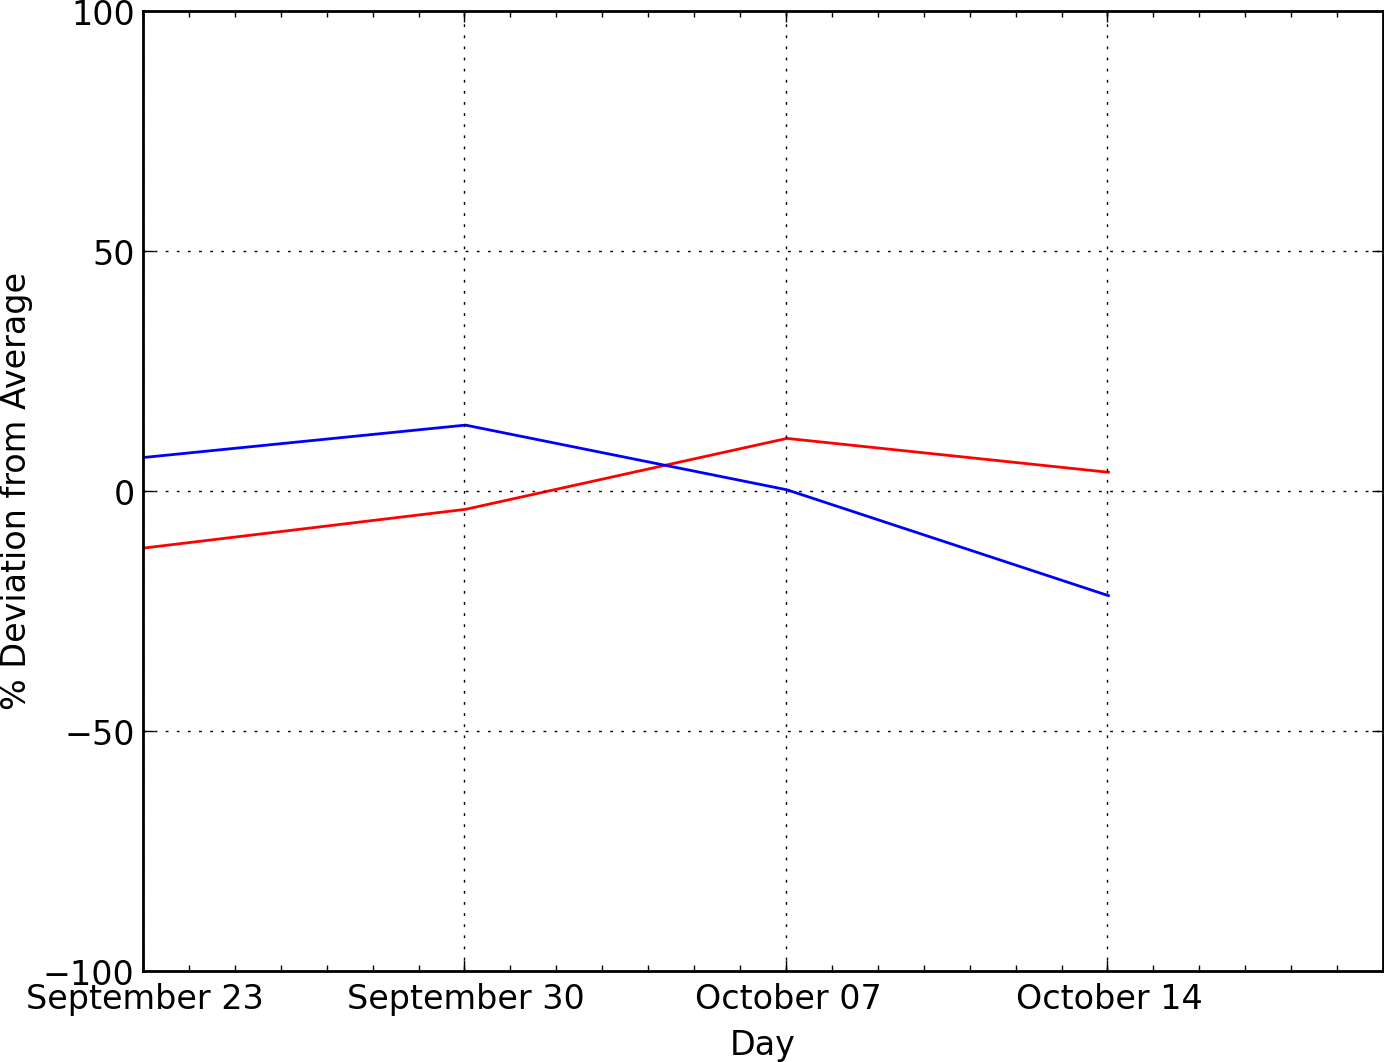
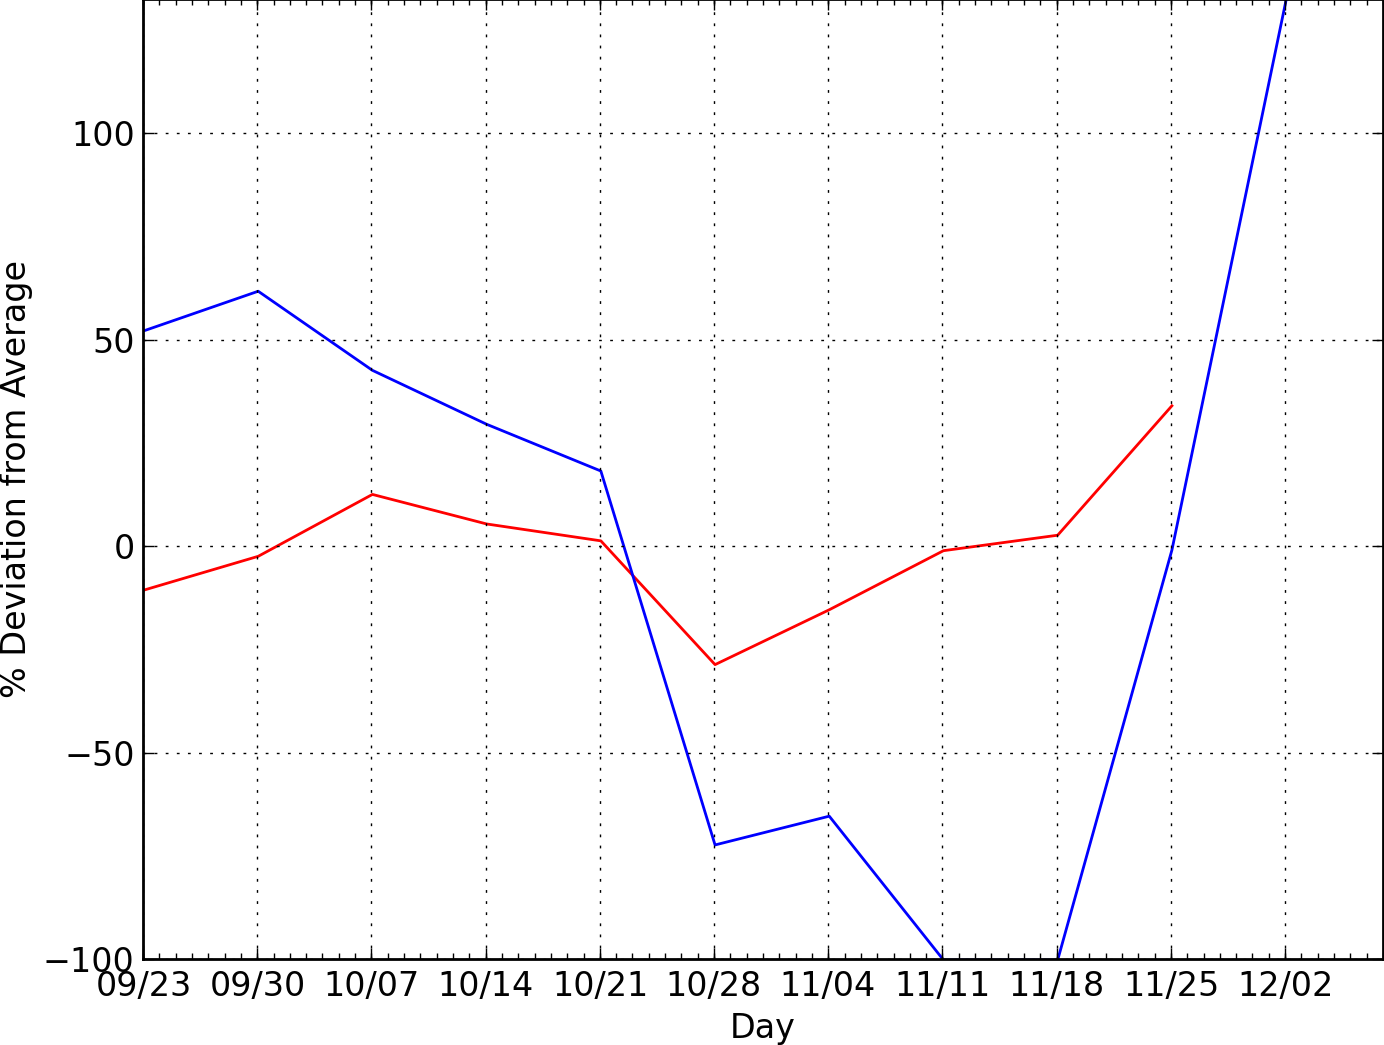
plotting m data against GFT data

diff --git a/plot/plot-mobile.py b/plot/plot-mobile.py
@@ -34,7 +34,7 @@ def dev_percent(val, avg):
 """ init cmdline args and whatnot """
 area = sys.argv[1]
 start, finish = None, None
-start_str = sys.argv[2] if len(sys.argv) >= 3 else "2012-10-07"
+start_str = sys.argv[2] if len(sys.argv) >= 3 else "2012-09-23"
 finish_str = sys.argv[3] if len(sys.argv) >= 4 else datetime.utcnow().strftime("%Y-%m-%d")
 start, finish = datetime.strptime(start_str, "%Y-%m-%d"), datetime.strptime(finish_str, "%Y-%m-%d")
 # catch input errors:
@@ -57,7 +57,7 @@ gft_keys,   gft_values,   gft_sum,   gft_count   = {}, {}, 0, 0
 couch_keys, couch_values, couch_sum, couch_count = {}, {}, 0, 0
 
 """ init couchdb stuff """
-couch = couchdb.Server('http://dev.fount.in:5984')
+couch = couchdb.Server('http://fount.in:5984')
 couch.resource.credentials = ('admin', 'admin')
 db_mobile = couch['m']
 
@@ -107,6 +107,11 @@ for row in results:
     couch_sum += row.value
 # also account for collection start here
 couch_count = (finish - start).days + 1
+# trim leading zeros (some cities started collecting later than others)
+while len(couch_values[area]) > 0 and couch_values[area][0] == 0.0:
+    couch_values[area].pop(0)
+    couch_keys[area].pop(0)
+    couch_count -= 1
 
 """ create lists for percent deviations """
 gft_avg, couch_avg = float(gft_sum) / gft_count, float(couch_sum) / couch_count
@@ -126,7 +131,7 @@ couch_line = axes.plot_date(couch_times, couch_pct, 'b-', linewidth = 1)
 
 """ plot styling """
 axes.xaxis.set_major_locator(mdates.WeekdayLocator(byweekday = 6))
-axes.xaxis.set_major_formatter(mdates.DateFormatter('%B %d'))
+axes.xaxis.set_major_formatter(mdates.DateFormatter('%m/%d'))
 axes.xaxis.set_minor_locator(mdates.DayLocator())
 axes.set_xlabel('Day')
 axes.set_ylabel('% Deviation from Average')
